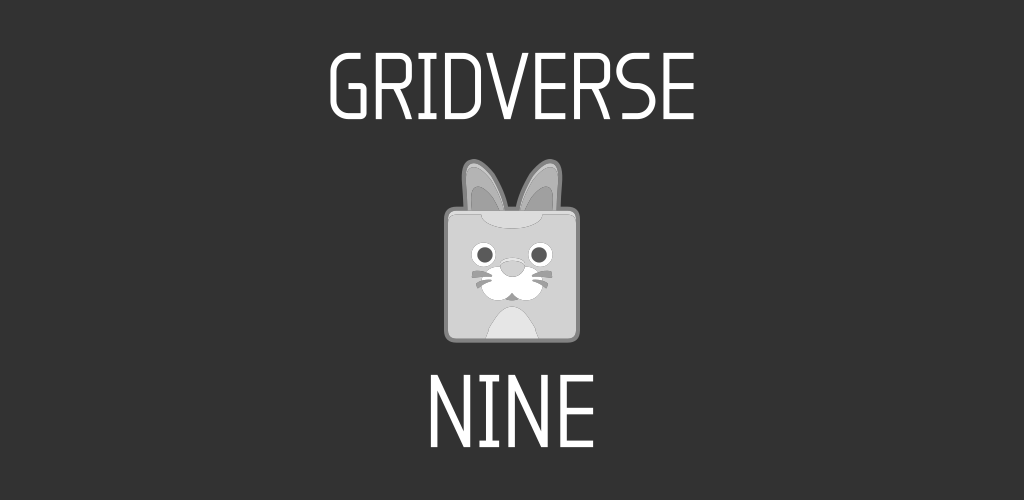
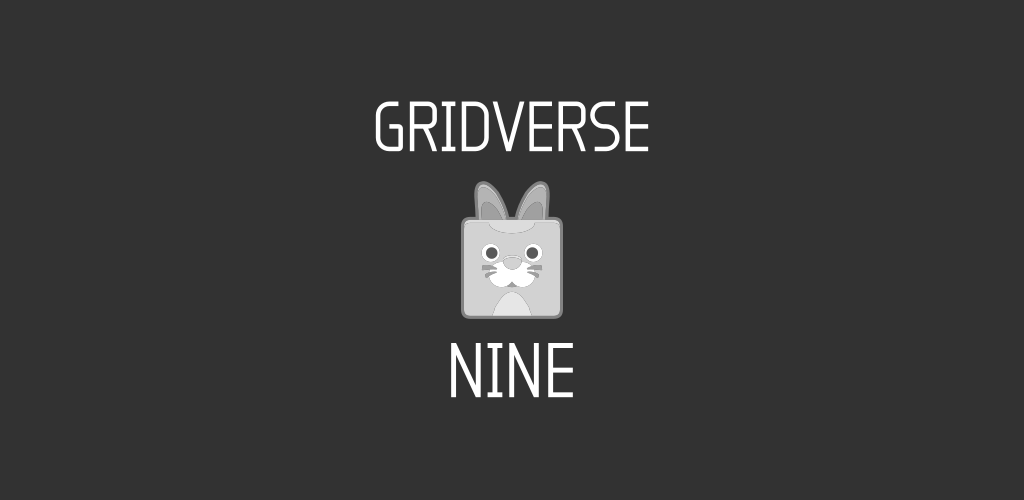
29/10/2025

Changed region(s): [[0.3125, 0.09, 0.6875, 0.9]]

diff --git a/gridverse-nine.html b/gridverse-nine.html
@@ -10,7 +10,7 @@
     <style>
         body {
             font-family: Consolas, monospace;
-            background-color: black;
+            background-color: #323232;
             color: white;
             justify-content: center;
             align-items: center;
